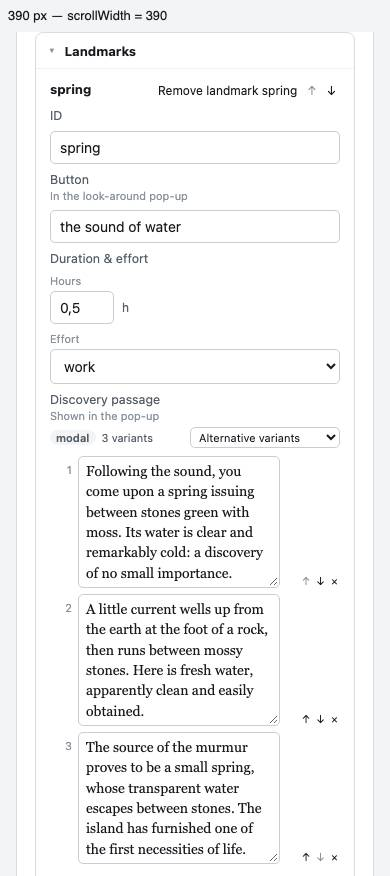
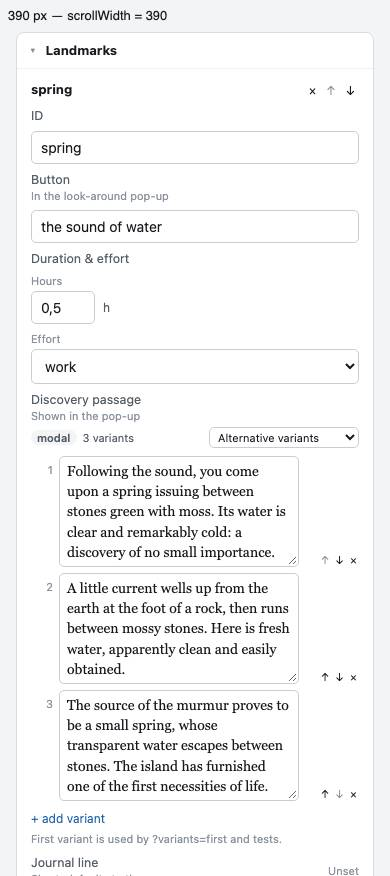
UX-03b review fixes: inspector rhythm, card chip lines, bare workspace

diff --git a/src/studio/area-workspace.tsx b/src/studio/area-workspace.tsx
@@ -2,12 +2,12 @@ import { useState, type ReactNode } from "react";
 import { z } from "zod";
 import { Region } from "../content";
 import type { Document } from "./documents";
-import { AuthorNote, SectionCard, Field, type FieldProps } from "./form";
+import { AuthorNote, SectionCard, OptionalChip, Field, type FieldProps } from "./form";
 import { getAt, whereUsed, deletionReferences, referenceLabel } from "./references";
 import { initialValue, unwrap, type Schema } from "./schema";
 import { replaceAt } from "./rename";
 import { MapGrid } from "./map-cells";
-import { hintFor } from "./hints";
+import { hintFor, humanize } from "./hints";
 import { summarize } from "./summary";
 
 export function AreaWorkspace(props: FieldProps & { open: (file: string, path: string) => void; newActivity: () => void }) {
@@ -25,12 +25,19 @@ export function AreaWorkspace(props: FieldProps & { open: (file: string, path: s
   const notes = Object.keys(raw).filter(key => key.startsWith("_") && typeof raw[key] === "string");
   const note = (key: string) => <AuthorNote key={key} name={key} value={raw[key] as string} change={value => props.onChange({ ...raw, [key]: value })} />;
   const before = (key: string) => notes.includes(`_${key}`) ? note(`_${key}`) : null;
-  const fields = (keys: string[]) => keys.map(key => <div className="field-with-note" key={key}>{before(key)}{field(shape[key as keyof typeof shape], key)}</div>);
+  const fields = (keys: string[]) => keys.filter(key => raw[key] !== undefined || !shape[key as keyof typeof shape].isOptional()).map(key => <div className="field-with-note" key={key}>{before(key)}{field(shape[key as keyof typeof shape], key)}</div>);
   const properties = Object.keys(shape).filter(key => !["map", "unlockWhen", "hintWhen", "description", "firstVisit", "arrive", "explore", "activities"].includes(key));
   const inPath = (path: string, key: string) => path === key || path.startsWith(`${key}.`);
   const card = (title: string, keys: string[], children: ReactNode, preview = summarize(Region, raw, keys, props.documents)) => {
     const count = title === "Used by" ? 0 : props.problems.filter(problem => keys.some(key => inPath(problem.path, key)) && (title !== "Text and exploration" || !inPath(problem.path, "explore.landmarks"))).length;
-    return <SectionCard name="Region" title={title} preview={preview} count={count}><section>{children}</section></SectionCard>;
+    const optionalKeys = title === "Text and exploration" && explore ? [...keys.filter(key => key !== "explore"), ...Object.keys(exploreShape).filter(key => key !== "landmarks").map(key => `explore.${key}`)] : keys;
+    const optional = optionalKeys.filter(path => getAt(raw, path) === undefined && (path.startsWith("explore.") ? exploreShape[path.slice(8)] : shape[path as keyof typeof shape])?.isOptional());
+    return <SectionCard name="Region" title={title} preview={preview} count={count}><section>{children}{optional.length > 0 && <div className="optional-fields"><span>Optional:</span>{optional.map(path => {
+      const schema = path.startsWith("explore.") ? exploreShape[path.slice(8)] : shape[path as keyof typeof shape];
+      const key = path.split(".").at(-1)!;
+      const chip = <OptionalChip key={path} name={key} label={hintFor(Region, path)?.label ?? humanize(key)} add={() => props.onChange(replaceAt(raw, path, initialValue(schema)))} />;
+      return !path.includes(".") && notes.includes(`_${key}`) ? <span className="optional-with-note" key={path}>{before(key)}{chip}</span> : chip;
+    })}</div>}</section></SectionCard>;
   };
   const explore = raw.explore as { landmarks?: unknown[] } | undefined;
   const exploreShape = (unwrap(shape.explore) as z.AnyZodObject).shape;
@@ -47,7 +54,7 @@ export function AreaWorkspace(props: FieldProps & { open: (file: string, path: s
     </>)}
     {card("Map and unlock", ["map", "unlockWhen", "hintWhen"], <><MapCells documents={props.documents} owner={props.owner} choose={map => props.onChange({ ...raw, map })} />{fields(["map", "unlockWhen", "hintWhen"])}</>)}
     {card("Text and exploration", ["description", "firstVisit", "arrive", "explore"], <>{fields(["description", "firstVisit", "arrive"])}
-      {before("explore")}{explore ? Object.keys(exploreShape).filter(key => key !== "landmarks").map(key => field(exploreShape[key], `explore.${key}`)) : field(shape.explore, "explore")}
+      {explore && <>{before("explore")}{Object.keys(exploreShape).filter(key => key !== "landmarks" && (getAt(raw, `explore.${key}`) !== undefined || !exploreShape[key].isOptional())).map(key => field(exploreShape[key], `explore.${key}`))}</>}
     </>)}
     {explore && card("Landmarks", ["explore.landmarks"], <>{landmarks.map((landmark, index) => {
       const path = `explore.landmarks.${index}`, id = (landmark as { id?: string })?.id ?? String(index);
@@ -56,13 +63,13 @@ export function AreaWorkspace(props: FieldProps & { open: (file: string, path: s
         setBlocked(refs); if (!refs.length) props.onChange(replaceAt(raw, "explore.landmarks", landmarks.filter((_, i) => i !== index)));
       };
       return <section data-field={path} tabIndex={-1} className="workspace-object-entry" key={index} aria-label={`Landmark ${id}`}><h3>{id || "New landmark"}</h3>{field(landmarkSchema, path, true)}
-        <div className="entry-actions"><button type="button" onClick={remove}>Remove landmark {id}</button>{[-1, 1].map(delta => <button type="button" key={delta} disabled={index + delta < 0 || index + delta >= landmarks.length} aria-label={`Move ${delta < 0 ? "up" : "down"} landmark ${id}`} onClick={() => { const next = [...landmarks]; [next[index], next[index + delta]] = [next[index + delta], next[index]]; props.onChange(replaceAt(raw, "explore.landmarks", next)); }}>{delta < 0 ? "↑" : "↓"}</button>)}</div>
+        <div className="entry-actions"><button type="button" aria-label={`Remove landmark ${id}`} onClick={remove}>×</button>{[-1, 1].map(delta => <button type="button" key={delta} disabled={index + delta < 0 || index + delta >= landmarks.length} aria-label={`Move ${delta < 0 ? "up" : "down"} landmark ${id}`} onClick={() => { const next = [...landmarks]; [next[index], next[index + delta]] = [next[index + delta], next[index]]; props.onChange(replaceAt(raw, "explore.landmarks", next)); }}>{delta < 0 ? "↑" : "↓"}</button>)}</div>
       </section>;
     })}
-      <button type="button" onClick={() => props.onChange(replaceAt(raw, "explore.landmarks", [...landmarks, initialValue(landmarkSchema)]))}>Add landmark</button>
+      <button className="add-link" type="button" aria-label="Add landmark" onClick={() => props.onChange(replaceAt(raw, "explore.landmarks", [...landmarks, initialValue(landmarkSchema)]))}>+ add landmark</button>
       {!!blocked.length && <div role="alert" className="error">Removal blocked: this landmark is referenced.{blocked.map(ref => <button type="button" key={`${ref.file}:${ref.path}`} onClick={() => props.open(ref.file, ref.path)}>{ref.file} › {ref.path}</button>)}</div>}
     </>, `landmarks: ${landmarks.length}`)}
-    {card("Linked activities", ["activities"], <>{before("activities")}{links.map((id, index) => <div className="linked-activity" key={`${id}:${index}`}><button type="button" onClick={() => { const activity = activities.find(d => d.id === id); if (activity) props.open(activity.path, ""); }}>{referenceLabel("activity", id, props.documents)}</button><button type="button" onClick={() => updateLinks(links.filter((_, i) => i !== index))}>Unlink {id}</button>{[-1, 1].map(delta => <button type="button" key={delta} aria-label={`Move ${delta < 0 ? "up" : "down"} activity ${id}`} disabled={index + delta < 0 || index + delta >= links.length} onClick={() => { const next = [...links]; [next[index], next[index + delta]] = [next[index + delta], next[index]]; updateLinks(next); }}>{delta < 0 ? "↑" : "↓"}</button>)}</div>)}
+    {card("Linked activities", ["activities"], <>{before("activities")}{links.map((id, index) => <div className="linked-activity" key={`${id}:${index}`}><button type="button" onClick={() => { const activity = activities.find(d => d.id === id); if (activity) props.open(activity.path, ""); }}>{referenceLabel("activity", id, props.documents)}</button><div className="entry-actions">{[-1, 1].map(delta => <button type="button" key={delta} aria-label={`Move ${delta < 0 ? "up" : "down"} activity ${id}`} disabled={index + delta < 0 || index + delta >= links.length} onClick={() => { const next = [...links]; [next[index], next[index + delta]] = [next[index + delta], next[index]]; updateLinks(next); }}>{delta < 0 ? "↑" : "↓"}</button>)}<button type="button" aria-label={`Unlink ${id}`} onClick={() => updateLinks(links.filter((_, i) => i !== index))}>×</button></div></div>)}
       <div className="row-actions"><select aria-label="Existing activity" value={link} onChange={e => setLink(e.target.value)}><option value="">Choose an activity…</option>{activities.filter(d => !links.includes(d.id)).map(d => <option value={d.id} key={d.id}>{referenceLabel("activity", d.id, props.documents)}</option>)}</select><button type="button" disabled={!link || links.includes(link)} onClick={() => { updateLinks([...links, link]); setLink(""); }}>Link existing</button><button type="button" onClick={props.newActivity}>New activity in this area</button></div>
       <h3>Global activities offered here</h3><ul>{activities.filter(d => (d.raw as { global?: boolean })?.global).map(d => <li key={d.path}>{d.id}{links.includes(d.id) ? " (at linked position)" : " (after linked activities)"}</li>)}</ul>
     </>, `activities: ${links.length}`)}

diff --git a/src/studio/event-editor.tsx b/src/studio/event-editor.tsx
@@ -1,13 +1,14 @@
 import { useMemo, useState } from "react";
 import { EventChoice, EventScene, GameEvent } from "../content";
 import { Dialog } from "./dialogs";
-import { AuthorNote, SectionCard, Field, RawField, type FieldProps } from "./form";
+import { AuthorNote, SectionCard, OptionalChip, Field, RawField, type FieldProps } from "./form";
 import { GraphView } from "./graph";
 import { addChoice, addScene, deleteScene, eventChecks, eventGraph, removeChoice, type EventRaw } from "./event";
 import { getAt, whereUsed, type Identity } from "./references";
 import { replaceAt } from "./rename";
-import { hintFor } from "./hints";
+import { hintFor, humanize } from "./hints";
 import { summarize } from "./summary";
+import { initialValue } from "./schema";
 
 type EventEditorProps = FieldProps & { rename: (target: Identity) => void };
 export function EventEditor(props: EventEditorProps) {
@@ -28,7 +29,8 @@ function EventWorkspace(props: EventEditorProps) {
   const keys = Object.keys(GameEvent.shape).filter(key => key !== "scenes");
   const notes = Object.keys(raw).filter(key => key.startsWith("_") && typeof raw[key] === "string");
   const note = (key: string) => <AuthorNote key={key} name={key} value={raw[key] as string} change={value => props.onChange({ ...raw, [key]: value })} />;
-  const fields = (keys: string[]) => keys.map(key => <div className="field-with-note" key={key}>{notes.includes(`_${key}`) && note(`_${key}`)}<Field key={key} {...props} schema={GameEvent.shape[key as keyof typeof GameEvent.shape]} path={key} presentation={{ schema: GameEvent.shape[key as keyof typeof GameEvent.shape], path: key, hint: hintFor(GameEvent, key) }} value={getAt(raw, key)} onChange={v => props.onChange(replaceAt(raw, key, v))} /></div>);
+  const optional = keys.filter(key => getAt(raw, key) === undefined && GameEvent.shape[key as keyof typeof GameEvent.shape].isOptional());
+  const fields = (keys: string[]) => keys.filter(key => !optional.includes(key)).map(key => <div className="field-with-note" key={key}>{notes.includes(`_${key}`) && note(`_${key}`)}<Field key={key} {...props} schema={GameEvent.shape[key as keyof typeof GameEvent.shape]} path={key} presentation={{ schema: GameEvent.shape[key as keyof typeof GameEvent.shape], path: key, hint: hintFor(GameEvent, key) }} value={getAt(raw, key)} onChange={v => props.onChange(replaceAt(raw, key, v))} /></div>);
   const checks = eventChecks(props.owner, props.problems);
   const incoming = removing ? whereUsed(props.documents, props.owner, `scenes.${removing}`).filter(ref => !ref.path.startsWith(`scenes.${removing}.`)) : [];
   const selection = selected && choice !== undefined && selected.choices?.[choice] ? `scenes.${scene}.choices.${choice}` : `scenes.${scene}`;
@@ -41,7 +43,12 @@ function EventWorkspace(props: EventEditorProps) {
     props.onChange(replaceAt(raw, selection, { ...ordered, ...next }));
   };
   return <section className="event-workspace" aria-label="Event editor"><SectionCard name="GameEvent" title="Event properties" preview={summarize(GameEvent, raw, keys, props.documents)} count={props.problems.filter(problem => keys.some(key => problem.path === key || problem.path.startsWith(`${key}.`))).length}>
-      <section>{notes.filter(key => !keys.includes(key.slice(1))).map(note)}{fields(keys)}{Object.keys(raw).filter(key => !(key in GameEvent.shape) && !notes.includes(key)).map(key => <details key={key}><summary>{key}</summary><pre>{JSON.stringify(raw[key], null, 2)}</pre></details>)}</section>
+      <section>{notes.filter(key => !keys.includes(key.slice(1))).map(note)}{fields(keys)}{Object.keys(raw).filter(key => !(key in GameEvent.shape) && !notes.includes(key)).map(key => <details key={key}><summary>{key}</summary><pre>{JSON.stringify(raw[key], null, 2)}</pre></details>)}
+        {optional.length > 0 && <div className="optional-fields"><span>Optional:</span>{optional.map(key => {
+          const chip = <OptionalChip key={key} name={key} label={hintFor(GameEvent, key)?.label ?? humanize(key)} add={() => props.onChange(replaceAt(raw, key, initialValue(GameEvent.shape[key as keyof typeof GameEvent.shape])))} />;
+          return notes.includes(`_${key}`) ? <span className="optional-with-note" key={key}>{note(`_${key}`)}{chip}</span> : chip;
+        })}</div>}
+      </section>
     </SectionCard>
     <GraphView graph={graph} title="Event scene graph" node={n => { setScene(n.id); setChoice(undefined); }} edge={e => { setScene(e.source); setChoice(Number(e.id.split(":").at(-1))); }} />
     <div className="row-actions"><button type="button" onClick={() => setAdding("scene")}>Add scene</button><button type="button" disabled={!selected} onClick={() => setAdding("choice")}>Add choice</button></div>

diff --git a/src/studio/main.tsx b/src/studio/main.tsx
@@ -141,7 +141,7 @@ function Studio() {
       <main className={`document-panel${["story", "trees", "map"].includes(scope) ? " story-panel" : ""}`}>
         {scope === "story" ? <StoryView store={store} documents={documents} open={openProblem} create={(kind, prefill) => setCreate({ kind, prefill })} /> : scope === "trees" ? <TreeEditor documents={documents} edit={(path, raw) => store.edit(path, raw)} open={openProblem} rename={setRenaming} newHere={(kind, tree) => setCreate({ kind, tree })} /> : scope === "map" ? <MapEditor documents={documents} problems={diagnostics} edit={(path, raw) => store.edit(path, raw)} open={path => { const id = documents.find(d => d.path === path)?.id; if (id) browse(`area:${id}`); }} /> : selected ? <>
           <div className="document-heading"><div><p>{kindLabels[selected.kind] ?? selected.kind} / {selected.id}</p><h2>{selected.label}</h2><code>{selected.path}</code></div><div className="row-actions">{selectedSchema && <><button aria-pressed={mode === "form"} onClick={() => setMode("form")}>Form</button><button aria-pressed={mode === "json"} onClick={() => setMode("json")}>JSON</button></>}{entitySchemas[selected.kind] && <><button disabled={store.busy} onClick={() => setCreate({ kind: selected.kind, duplicate: selected.path })}>Duplicate</button><button disabled={store.busy} onClick={() => { setDeleteOrphans(false); setDeleting(selected.path); }}>Delete</button></>}</div></div>
-          <section className={fileContentsClass(selectedSchema, mode, selected.raw)} aria-label="File contents"><div className="json-heading"><h3>{selected.encoding === "utf8" ? mode === "form" && selected.raw !== undefined ? "Content form" : "JSON" : "Image file"}</h3><span>{status}</span></div>
+          <section className={fileContentsClass(selectedSchema, mode, selected.raw, Boolean(selectedSchema && selected.raw !== undefined && (area && selected.path === area.path || selected.kind === "events")))} aria-label="File contents"><div className="json-heading"><h3>{selected.encoding === "utf8" ? mode === "form" && selected.raw !== undefined ? "Content form" : "JSON" : "Image file"}</h3><span>{status}</span></div>
             {field && <p className="field-location">Field: <code>{field}</code></p>}
             {selectedSchema && selected.encoding === "utf8" && (mode === "json" || selected.raw === undefined) ? <JsonEditor key={selected.path} path={selected.path} text={store.buffersFor(selected.path)[""]?.text ?? (store.drafts.has(selected.path) ? selected.content : selected.formatted)} schema={selectedSchema} problems={diagnostics.filter((p) => p.file === selected.path)} references={(kind, path) => referenceOptions(kind, documents, selected, path)} readOnly={store.busy} reveal={field} onEdit={(text) => store.editJson(selected.path, text)} onSettle={() => store.endTyping()} onProblem={(message) => store.setJsonProblem(selected.path, message)} /> : selectedSchema && selected.raw !== undefined ? <fieldset disabled={store.busy} className="editor-fields" key={`${selected.path}:${historyKey}`}>
               {area && selected.path === area.path ? <AreaWorkspace schema={selectedSchema} value={selected.raw} path="" lockId problems={diagnostics.filter(p => p.file === selected.path)} documents={documents} owner={selected} onChange={raw => store.edit(selected.path, raw)} buffers={store.buffersFor(selected.path)} onError={(path, message, buffer) => store.error(selected.path, path, message, buffer)} open={openProblem} newActivity={() => setCreate({ kind: "activities", areaPath: selected.path })} /> : selected.kind === "events" ? <EventEditor schema={selectedSchema} value={selected.raw} path="" lockId problems={diagnostics.filter(p => p.file === selected.path)} documents={documents} owner={selected} onChange={raw => store.edit(selected.path, raw)} buffers={store.buffersFor(selected.path)} onError={(path, message, buffer) => store.error(selected.path, path, message, buffer)} rename={setRenaming} /> : <Field schema={selectedSchema} value={selected.raw} path="" lockId problems={diagnostics.filter((p) => p.file === selected.path)} documents={documents} owner={selected} onChange={(raw) => store.edit(selected.path, raw)} buffers={store.buffersFor(selected.path)} onError={(path, message, buffer) => store.error(selected.path, path, message, buffer)} />}

diff --git a/tests/studio/area-workspace.test.ts b/tests/studio/area-workspace.test.ts
@@ -92,13 +92,14 @@ it("renders forest cards, editable root notes and landmark hints without double-
   expect(html.indexOf('aria-label="_note"')).toBeLessThan(html.indexOf('data-field="id"'));
   expect(html).toContain('<summary>_raw</summary>');
   expect(html).not.toContain('landmark-entry');
+  expect(html).toContain('class="add-link" type="button" aria-label="Add landmark">+ add landmark</button>');
   const forest = owner.raw as { explore: { landmarks: { id: string }[] } };
   expect(html).toContain('<section class="area-workspace" aria-label="Area workspace">');
   expect(html).toContain('<section aria-label="Used by Area forest">');
   for (const landmark of forest.explore.landmarks) {
     expect(html).toContain(`aria-label="Landmark ${landmark.id}"`);
     expect(html).toContain(`<section aria-label="Used by Landmark ${landmark.id}">`);
-    expect(html).toContain(`Remove landmark ${landmark.id}`);
+    expect(html).toContain(`aria-label="Remove landmark ${landmark.id}">×</button>`);
     expect(html).toContain(`aria-label="Move up landmark ${landmark.id}"`);
     expect(html).toContain(`aria-label="Move down landmark ${landmark.id}"`);
   }
@@ -111,4 +112,31 @@ it("renders forest cards, editable root notes and landmark hints without double-
   const empty = render(without, "explore.name");
   expect(empty).not.toContain('<strong>Landmarks</strong>');
   expect(empty).toContain('aria-label="Add explore"');
+});
+
+
+it("groups unset area fields into one trailing Optional line per card and preserves entry control names", () => {
+  const store = setup(), documents = store.view.documents, owner = documents.find(d => d.kind === "regions" && d.id === "forest")!;
+  const value = { id: "forest", name: "forest", title: "Forest", description: "Trees.", climate: { baseC: 18 }, travelHours: 1, activities: ["gather_wood"], _artwork: "Art note", _explore: "Explore note" };
+  const html = renderToStaticMarkup(createElement(AreaWorkspace, { schema: schemaFor(owner.path)!, value, path: "", documents, owner, problems: [], onError: () => {}, onChange: () => { throw new Error("Rendering must not edit"); }, open: () => {}, newActivity: () => {} }));
+  expect(html.match(/class="optional-fields"/g)).toHaveLength(3);
+  for (const [title, next, keys] of [
+    ["Properties", "Map and unlock", ["artwork", "siteCapabilities", "order", "shelterWhen"]],
+    ["Map and unlock", "Text and exploration", ["map", "unlockWhen", "hintWhen"]],
+    ["Text and exploration", "Linked activities", ["firstVisit", "arrive", "explore"]],
+  ] as const) {
+    const card = html.split(`<strong>${title}</strong>`)[1].split(`<strong>${next}</strong>`)[0];
+    expect(card.match(/class="optional-fields"/g)).toHaveLength(1);
+    const [fields, optional] = card.split('class="optional-fields"');
+    expect(fields).not.toContain('class="optional-chip"');
+    expect(optional).toContain('<span>Optional:</span>');
+    for (const key of keys) {
+      expect(optional).toContain(`aria-label="Add ${key}"`);
+      expect(fields).not.toContain(`data-field="${key}"`);
+    }
+    if (title === "Properties") expect(optional.indexOf('aria-label="_artwork"')).toBeLessThan(optional.indexOf('aria-label="Add artwork"'));
+    if (title === "Text and exploration") expect(optional.indexOf('aria-label="_explore"')).toBeLessThan(optional.indexOf('aria-label="Add explore"'));
+  }
+  expect(html).toContain('class="entry-actions"><button type="button" aria-label="Move up activity gather_wood"');
+  expect(html).toContain('aria-label="Unlink gather_wood">×</button>');
 });

diff --git a/tests/studio-browser/more-kinds.spec.ts b/tests/studio-browser/more-kinds.spec.ts
@@ -70,3 +70,56 @@ test("landmark diagnostics badge only Landmarks and reveal the collapsed card an
   await hours.fill("1");
   await expect(card(page, "Landmarks")).toHaveAttribute("open", "");
 });
+
+test("workspaces use bare compact cards, trailing optional lines and named entry controls", async ({ page }) => {
+  await forest(page);
+  const contents = page.getByRole("region", { name: "File contents" });
+  await expect(contents).toHaveClass("json-panel json-panel-bare");
+  const properties = card(page, "Properties");
+  const optional = properties.locator(":scope > .form-section-body > section > .optional-fields");
+  await expect(optional).toHaveCount(1);
+  await expect(optional).toContainText("Optional:");
+  await expect(optional.getByRole("button", { name: "Add artwork", exact: true })).toBeVisible();
+  await expect(properties.locator(".field-with-note .optional-chip")).toHaveCount(0);
+  await expect(properties.locator('[data-field="name"]')).toHaveCSS("margin-top", "0px");
+  await expect(properties.locator('[data-field="name"]')).toHaveCSS("margin-bottom", "0px");
+  const remove = page.getByRole("button", { name: "Remove landmark spring", exact: true });
+  await expect(remove).toHaveText("×");
+  const add = page.getByRole("button", { name: "Add landmark", exact: true });
+  await expect(add).toHaveText("+ add landmark");
+  await add.click();
+  await expect(page.locator(".workspace-object-entry")).toHaveCount(3);
+  await page.getByRole("button", { name: "Undo", exact: true }).click();
+  await expect(page.locator(".workspace-object-entry")).toHaveCount(2);
+  const rows = card(page, "Linked activities").locator(".linked-activity");
+  const first = rows.first(), toolbar = first.locator(":scope > .entry-actions");
+  const original = await first.locator(":scope > button").textContent();
+  await page.getByRole("navigation").hover();
+  await expect(toolbar).toHaveCSS("opacity", "0");
+  await first.hover();
+  await expect(toolbar).toHaveCSS("opacity", "1");
+  await toolbar.getByRole("button", { name: /^Move down activity / }).click();
+  await expect(first.locator(":scope > button")).not.toHaveText(original!);
+  await page.getByRole("button", { name: "Undo", exact: true }).click();
+  await expect(first.locator(":scope > button")).toHaveText(original!);
+  const unlink = toolbar.getByRole("button", { name: /^Unlink / });
+  await unlink.focus();
+  await expect(toolbar).toHaveCSS("opacity", "1");
+  await expect(unlink).toHaveText("×");
+  await unlink.click();
+  await expect(rows).toHaveCount(3);
+  await page.getByRole("button", { name: "Undo", exact: true }).click();
+  await expect(rows).toHaveCount(4);
+  await page.setViewportSize({ width: 390, height: 844 });
+  await expect(toolbar).toHaveCSS("opacity", "1");
+  expect(await page.evaluate(() => document.documentElement.scrollWidth)).toBe(390);
+  await page.setViewportSize({ width: 1440, height: 900 });
+  await page.getByRole("navigation").getByRole("button", { name: /^Events/ }).click();
+  await expect(contents).toHaveClass("json-panel json-panel-bare");
+  const event = page.locator('.event-workspace > .form-section');
+  await expect(event.locator(":scope > .form-section-body > section > .optional-fields")).toHaveCount(1);
+  await expect(event.locator(".field-with-note .optional-chip")).toHaveCount(0);
+  await expect(event.locator('[data-field="title"]')).toHaveCSS("margin-top", "0px");
+  await page.getByRole("button", { name: "JSON", exact: true }).click();
+  await expect(contents).toHaveClass("json-panel");
+});

diff --git a/tests/studio/widgets.test.ts b/tests/studio/widgets.test.ts
@@ -5,7 +5,7 @@ import { createElement } from "react";
 import { renderToStaticMarkup } from "react-dom/server";
 import { afterAll, expect, it, vi } from "vitest";
 import { z } from "zod";
-import { Activity, Artwork, Item, Site, Condition, Effect, Outcome, Text, Quest, Recipe, Building, formatContent } from "../../src/content";
+import { Activity, Artwork, Item, Site, Condition, Effect, Outcome, Text, Quest, Recipe, Building, Region, GameEvent, formatContent } from "../../src/content";
 import { Field, fileContentsClass, rootSections } from "../../src/studio/form";
 import { boundedExpansion } from "../../src/studio/widgets";
 import { BUILDER_DEPTH, conditionPhrases, describe, effectPhrases, unionKinds } from "../../src/studio/describe";
@@ -303,9 +303,14 @@ it("initializes card DOM from stored collapsed titles and tolerates unavailable 
 });
 
 it("renders the bare file panel only for sectioned document roots in Form mode", () => {
-  for (const [schema, value, mode, bare] of [
+  for (const [schema, value, mode, bare, workspace] of [
     [Activity, { name: "test", id: "test", hours: 1 }, "form", true],
     [Item, { name: "test", id: "test" }, "form", true],
+    [Region, { id: "test", name: "test" }, "form", true, true],
+    [GameEvent, { id: "test", title: "test" }, "form", true, true],
+    [Region, { id: "test", name: "test" }, "json", false, true],
+    [GameEvent, { id: "test", title: "test" }, "json", false, true],
+    [Region, { id: "test", name: "test" }, "form", false, false],
     [Site, { name: "test", id: "test" }, "form", false],
     [Artwork, { id: "test", src: "test.png" }, "form", false],
     [Activity, { name: "test", id: "test" }, "json", false],
@@ -313,11 +318,11 @@ it("renders the bare file panel only for sectioned document roots in Form mode",
     [Activity, { _note: "Only a note" }, "form", false],
     [Activity, null, "form", false],
   ] as const) {
-    const html = renderToStaticMarkup(createElement("section", { className: fileContentsClass(schema, mode, value), "aria-label": "File contents" },
+    const html = renderToStaticMarkup(createElement("section", { className: fileContentsClass(schema, mode, value, workspace), "aria-label": "File contents" },
       mode === "form" ? createElement(Field, { schema, value, path: "", owner, documents, problems: [], onChange: () => { throw new Error("Render must not edit"); }, onError: () => {} }) : null));
     expect(html.includes('class="json-panel json-panel-bare"')).toBe(bare);
-    expect(mode === "form" && Boolean(rootSections(schema, value)?.length)).toBe(bare);
-    if (mode === "form") expect(html.includes('class="form-section"')).toBe(bare);
+    expect(mode === "form" && Boolean(workspace || rootSections(schema, value)?.length)).toBe(bare);
+    if (mode === "form") expect(html.includes('class="form-section"')).toBe(Boolean(rootSections(schema, value)?.length));
     expect(html).toContain('aria-label="File contents"');
   }
 });

diff --git a/src/studio/studio.css b/src/studio/studio.css
@@ -174,10 +174,15 @@ select:focus-visible, textarea:focus-visible { outline: 2px solid var(--studio-a
 .workspace-object-entry > .form-field { grid-column: 1 / -1; grid-row: 2; margin: 0; }
 .workspace-object-entry > .entry-actions { grid-column: 2; grid-row: 1; flex-wrap: wrap; justify-content: end; }
 .workspace-object-entry:hover > .entry-actions, .workspace-object-entry:focus-within > .entry-actions { opacity: 1; }
+.form-section-body > section > .field-with-note > .form-field, .form-section-body > section > .form-field { margin: 0; }
 .form-section-body > section { min-width: 0; display: grid; gap: 8px; }
 .map-cells { display: grid; gap: 4px; overflow: auto; max-width: 100%; margin: 12px 0; }
 .map-cells button { min-height: 56px; padding: 6px; display: flex; flex-direction: column; gap: 4px; overflow-wrap: anywhere; font-size: 11px; }
-.linked-activity { display: flex; flex-wrap: wrap; gap: 6px; padding: 8px 0; border-bottom: 1px solid var(--studio-border); }
+.linked-activity { display: flex; align-items: center; gap: 8px; min-width: 0; padding: 6px 0; }
+.linked-activity + .linked-activity { border-top: 1px solid #eef0f2; }
+.linked-activity > button { flex: 1; min-width: 0; text-align: left; overflow-wrap: anywhere; }
+.linked-activity > .entry-actions { flex: none; }
+.linked-activity:hover > .entry-actions, .linked-activity:focus-within > .entry-actions { opacity: 1; }
 .identity-controls { padding: 18px; border-top: 1px solid var(--studio-border); }
 .identity-controls > div { display: flex; flex-wrap: wrap; align-items: center; gap: 8px; margin-top: 8px; overflow-wrap: anywhere; }
 .studio-dialog label { display: block; margin: 8px 0; }
@@ -195,6 +200,7 @@ select:focus-visible, textarea:focus-visible { outline: 2px solid var(--studio-a
 .kind-flag { background: #f3f4f6; border-color: #545c66; }
 .graph-view small { display: block; overflow-wrap: anywhere; }
 .event-workspace, .story-workspace { min-width: 0; }
+.event-workspace > .workspace-card { background: var(--studio-panel); }
 @media (max-width: 700px) { .story-panel { grid-column: auto; } .flow-canvas { height: 420px; } }
 .is-start { border: 3px solid var(--studio-accent); }
 .kind-missing { border: 2px dashed var(--studio-error); }

diff --git a/tests/studio/event-editor.test.ts b/tests/studio/event-editor.test.ts
@@ -77,11 +77,19 @@ it("list views and laid-out graphs expose exactly the same nodes and edges; area
 
 it("cards only event properties, applies hints and keeps scene controls and comments unchanged", () => {
   const store = setup(), documents = store.view.documents, owner = documents.find(d => d.id === "shipwreck")!;
-  const value = { ...owner.raw as object, _title: "Title note", _note: "General note", _raw: { keep: true } };
+  const value = { ...owner.raw as object, _when: "Condition note", _title: "Title note", _note: "General note", _raw: { keep: true } };
   const html = renderToStaticMarkup(createElement(EventEditor, { schema: schemaFor(owner.path)!, value, path: "", documents, owner, problems: [], onError: () => {}, onChange: () => { throw new Error("Rendering must not edit"); }, rename: () => {} }));
   expect(html.match(/class="form-section"/g)).toHaveLength(1);
   for (const label of ["Event properties", ">Title</label>", ">Opens</label>", "+ Only when", "+ Repeat", 'aria-label="Selected scene or choice"', 'aria-label="Event scene graph"', 'aria-label="Event graph checks"', 'aria-label="scenes.start.text"']) expect(html).toContain(label);
   expect(html.indexOf('aria-label="_title"')).toBeLessThan(html.indexOf('data-field="title"'));
   expect(html.indexOf('aria-label="_note"')).toBeLessThan(html.indexOf('data-field="id"'));
   expect(html).toContain('<summary>_raw</summary>');
+  const properties = html.split('<strong>Event properties</strong>')[1].split('<section class="graph-view"')[0];
+  const [fields, optional] = properties.split('class="optional-fields"');
+  expect(properties.match(/class="optional-fields"/g)).toHaveLength(1);
+  expect(fields).not.toContain('class="optional-chip"');
+  expect(optional).toContain('<span>Optional:</span>');
+  for (const key of ["when", "repeat"]) expect(optional).toContain(`aria-label="Add ${key}"`);
+  expect(optional.indexOf('aria-label="_when"')).toBeLessThan(optional.indexOf('aria-label="Add when"'));
+
 });

diff --git a/src/studio/form.tsx b/src/studio/form.tsx
@@ -81,11 +81,11 @@ export function rootSections(schema: Schema | undefined, value: unknown): (Secti
   const nonEmpty = grouped.filter(section => section.fields.length);
   return nonEmpty;
 }
-export function fileContentsClass(schema: Schema | undefined, mode: string, value: unknown): string {
-  return `json-panel${mode === "form" && rootSections(schema, value)?.length ? " json-panel-bare" : ""}`;
+export function fileContentsClass(schema: Schema | undefined, mode: string, value: unknown, workspace = false): string {
+  return `json-panel${mode === "form" && (workspace || rootSections(schema, value)?.length) ? " json-panel-bare" : ""}`;
 }
 const labelForInline = (key: string) => rangeCaptions[key as keyof typeof rangeCaptions] ?? humanize(key).toLowerCase();
-function OptionalChip({ name, label, add }: { name: string; label: string; add: () => void }) {
+export function OptionalChip({ name, label, add }: { name: string; label: string; add: () => void }) {
   return <button className="optional-chip" type="button" aria-label={`Add ${name}`} onClick={add}>+ {label}</button>;
 }
 function RootSections({ schema, raw, groups, problems, documents, renderFields }: {

diff --git a/docs/mockups/studio/README.md b/docs/mockups/studio/README.md
@@ -361,10 +361,16 @@ visible at ≤760 px / without hover), retaining Remove/Move control names. Thei
 numeric field caption is hidden, as in UX-04b object arrays. Only Event properties gets a card;
 the scene graph, selected panel, checks and add dialogs are unchanged.
 
-Actual deviations from the approved UX-03b scope: none. The existing area/event outer file
-frame remains because shell work is outside this PR; generic sectioned forms retain the UX-03
-bare frame. The mockup has no area/building/task examples, so comparisons use its note, card,
-inspector and row examples. The shell, context rail and new widgets are outside this PR.
+Review fixes: area/event cards now sit directly on the grey background, using the same bare
+file panel as generic sectioned forms; Rename IDs and Used by keep their white frames. Workspace
+scalar rows use the inspector grid's 8 px gap with no added field margins. Each card's unset
+optional fields share one trailing Optional line; notes for unset fields precede their chips.
+Landmark removal displays × with its unchanged accessible name; adding uses “+ add landmark”.
+Linked activities use label + hover/focus ↑ / ↓ / × entry toolbars, always visible at ≤760 px or
+without hover. Existing accessible names and the Add explore flow are preserved.
+
+Actual deviations from the approved UX-03b scope and review fixes: none. The mockup has no
+area/building/task examples, so comparisons use its note, card, inspector and row examples. The shell, context rail and new widgets are outside this PR.
 
 Evidence (captured read-only from shipped content at 1440×900, device scale 1):
 [forest Properties and one landmark beside mockup](ux-03b/area-comparison.jpg),
@@ -377,12 +383,13 @@ Phone `document.documentElement.scrollWidth` is exactly 390.
 
 Shipped content at 1440×900, every card open, `.editor-fields.scrollHeight`:
 
-| Document | Before (`eb72ad7`) | UX-03b | Change |
+| Document | Before (`eb72ad7`) | UX-03b reviewed | Change |
 | --- | ---: | ---: | ---: |
-| `regions/forest.json` | 8,462 px | 8,752 px | +290 px |
+| `regions/forest.json` | 8,462 px | 8,410 px | −52 px |
 | `buildings/fish_trap.json` | 2,679 px | 2,838 px | +159 px |
 | `quests/build_fish_trap.json` | 705 px | 873 px | +168 px |
 
 The plan's approximately 18,800 px forest measurement predates UX-02..05; the before column
-above is the actual requested base. Added help, cards and editable notes increase the fully
-expanded height; collapsed cards make individual groups skimmable without changing content.
+above is the actual requested base. Forest is now 52 px below that baseline and 342 px below
+the initial UX-03b height of 8,752 px. The building/task heights are unchanged by these workspace
+review fixes; their added help and cards still increase their fully expanded heights.

diff --git a/docs/STUDIO.md b/docs/STUDIO.md
@@ -94,8 +94,9 @@ same chip style. Adding a field uses the existing empty initial value; **Unset**
 
 Activity and Item root forms group set fields into collapsible cards. Activity cards are Basics,
 When can the player do this?, Journal and Results; Item cards are Basics, Use and Item actions.
-Section cards sit directly on the editor background without an outer form frame. The Content form
-heading stays available to assistive technology, with a muted status line above the cards.
+Section cards, including the area workspace and event editor, sit directly on the editor background
+without an outer form frame. The Content form heading stays available to assistive technology,
+with a muted status line above the cards.
 Empty cards are omitted. Future unlisted fields appear in Other, and the root Optional chip line
 follows all cards. Display order does not reorder the JSON. Nested objects and required-only
 Create forms keep their existing layout; JSON mode remains unchanged.
@@ -132,7 +133,12 @@ Text and exploration excludes landmark paths, and Used by has no problem badge.
 
 **[implemented, UX-03b]** Event properties is one remembered card under
 `studio.sections:GameEvent`, with Title / Opens / Only when / Repeat labels and editable root
-notes. The scene graph, selected scene/choice panel and add dialogs retain their existing forms.
+notes. Workspace scalar rows use the inspector's 8 px gap without additional field margins.
+Each workspace card has one trailing Optional chip line for its unset fields; notes for unset
+fields sit before their chips. Landmarks use × with the same Remove name and a “+ add landmark”
+link. Linked activities use ↑ / ↓ / × entry toolbars on hover/focus (always visible at ≤760 px
+or without hover), keeping the existing Move/Unlink names. The scene graph, selected scene/choice
+panel and add dialogs retain their existing forms.
 
 ## JSON editor — [implemented]
 
